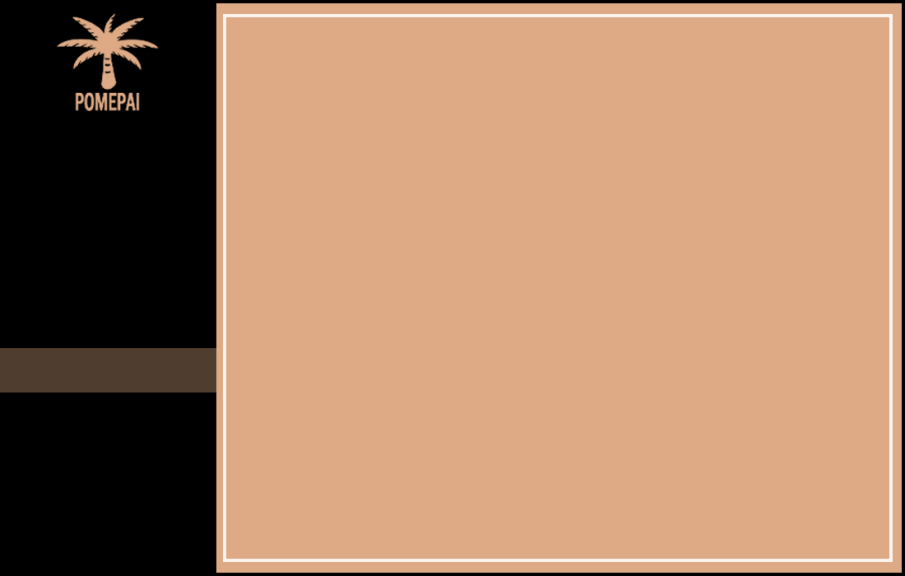
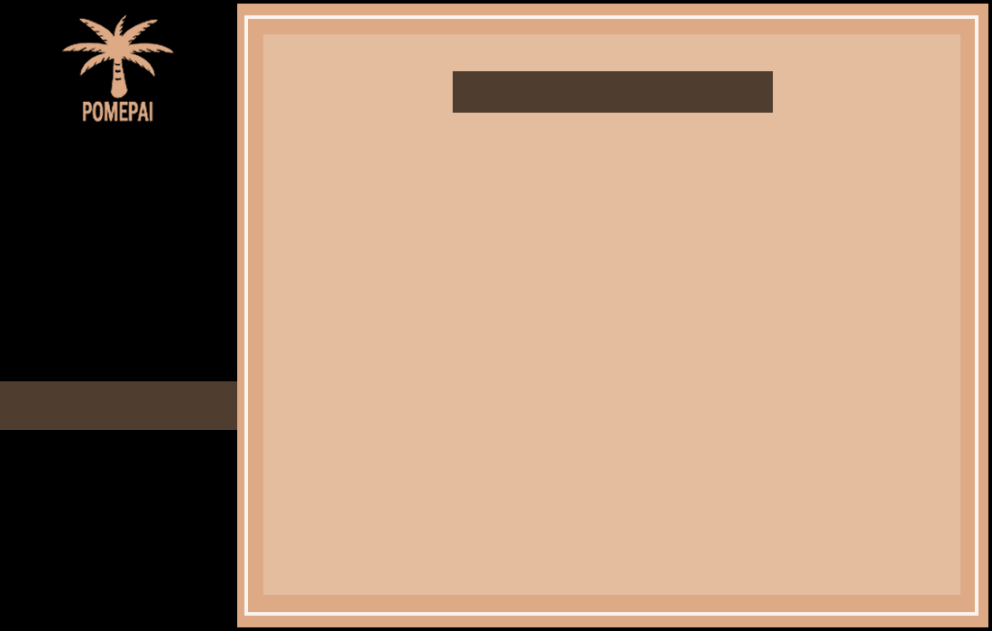
prediction2 bg and excel prediction

diff --git a/Software.py b/Software.py
@@ -45,48 +45,6 @@ class tkinterApp(tk.Tk):
         frame.tkraise()
         self.title('POMEPAI')
 
-# class LoginPage(tk.Frame):
-#
-#     def init(self, parent, controller):
-#         tk.Frame.init(self, parent)
-#
-#         # Background image
-#         bg = Image.open("Pictures/login.png")
-#         resizebg = bg.resize((760, 760), Image.ANTIALIAS)
-#         self.newbg = ImageTk.PhotoImage(resizebg)
-#
-#         rectangle = tk.Canvas(self, width=760, height=760)
-#         rectangle.create_rectangle(220, 500, 540, 270)
-#         rectangle.create_image(0, 0, image=self.newbg, anchor=NW)
-#         rectangle.create_text(385, 230, text="LOGIN", fill="#00557E", font=('Raleway', 30, 'bold'))
-#         rectangle.create_text(325, 295, text="Username", fill="black", font=('Raleway', 11))
-#         rectangle.create_text(325, 365, text="Password", fill="black", font=('Raleway', 11))
-#         rectangle.grid(row=0, column=0)
-#
-#         username = tk.StringVar()
-#         usernameEntered = tk.Entry(self, width=30, textvariable=username)
-#         usernameEntered.grid(column=0, row=0, padx=(0, 0), pady=(220, 350))
-#
-#         password = tk.StringVar()
-#         passwordEntered = tk.Entry(self, width=30, textvariable=password, show="*")
-#         passwordEntered.grid(column=0, row=0, pady=(320, 310))
-#
-#         # Define functions
-#         def on_enter(e):
-#             button.config(background='#00557E', foreground="white")
-#
-#         def on_leave(e):
-#             button.config(background='SystemButtonFace', foreground='black')
-#
-#         # Create a Button
-#         # button = tk.Button(self, text="Login", font=('Raleway', 11), width=10, height=0, bd=0,
-#         #                    command=lambda: validateLogin(username.get(), password.get()))
-#         # button.grid(column=0, row=0, pady=(400, 230))
-#
-#         # Bind the Enter and Leave Events to the Button
-#         button.bind('<Enter>', on_enter)
-#         button.bind('<Leave>', on_leave)
-
 class HomePage(tk.Frame):
     def __init__(self, parent, controller):
         tk.Frame.__init__(self, parent)
@@ -98,6 +56,7 @@ class HomePage(tk.Frame):
         self.newbg = ImageTk.PhotoImage(resizebg)
         rectangle = tk.Canvas(self, width=1100, height=700, borderwidth=0, highlightthickness=0)
         rectangle.create_image(0, 0, image=self.newbg, anchor=NW)
+        rectangle.create_text(130, 155, text="POME Prediction AI", fill="#DDAA85", font=('Raleway', 17, 'bold'))
         rectangle.grid(row=0, column=0)
 
         aboutButton = tk.Button(self, text="ABOUT", fg="#DDAA85", bg="#4F3D2F", width=30, height=2, bd=0, activebackground="#4F3D2F",
@@ -221,53 +180,159 @@ class PredictionPage2(tk.Frame):
     def __init__(self, parent, controller):
         tk.Frame.__init__(self, parent)
 
+        listbox = Listbox(self, height=144, width=144, selectmode="multiple")
+        listbox.pack
+
         def getExcel():
+
             file = askopenfile(filetypes=[('Excel Files', '*.xlsx')])
             inputExcelFile = load_workbook(filename=file.name)
             inputExcelFile2 = inputExcelFile.active
 
+            features_row = inputExcelFile2[1]
+
+            for item in features_row:
+                box1.insert(END, item.value)
+
             file_label = tk.Label(self, text='File Uploaded Successfully!', foreground='green')
-            file_label.grid(column=0, row=0, padx=(10, 600), pady=(680, 15))
+            file_label.grid(column=0, row=0, padx=(350, 80), pady=(580, 20))
             file_label.after(3000, lambda: file_label.destroy())
 
         # Background image
         bg = Image.open("Pictures/GUI3.png")
         resizebg = bg.resize((1100,700), Image.ANTIALIAS)
 
+        # def data():
+        #     global filename
+        #     filename = askopenfilename(initialdir=r'C:\Users\surya\Desktop\CDAC Noida\ML\Files', title="Select file")
+        #     e1.insert(0, filename)
+        #     e1.config(text=filename)
+        #
+        #     global file
+        #     file = pd.read_csv(filename)
+        #     for i in file.columns:
+        #         box1.insert(END, i)
+        #
+        #     for i in file.columns:
+        #         if type(file[i][0]) == np.float64:
+        #             file[i].fillna(file[i].mean(), inplace=True)
+        #         elif type(file[i][0]) == np.int64:
+        #             file[i].fillna(file[i].median(), inplace=True)
+        #         elif type(file[i][0]) == type(""):
+        #             imp = SimpleImputer(missing_values=np.nan, strategy='most_frequent')
+        #             s = imp.fit_transform(file[i].values.reshape(-1, 1))
+        #             file[i] = s
+        #
+        #     colss = file.columns
+        #     global X_Axis
+        #     X_Axis = StringVar()
+        #     X_Axis.set('X-axis')
+        #     choose = ttk.Combobox(self, width=22, textvariable=X_Axis)
+        #     choose['values'] = (tuple(colss))
+        #     choose.place(x=400, y=20)
+        #
+        #     global Y_Axis
+        #     Y_Axis = StringVar()
+        #     Y_Axis.set('Y-axis')
+        #     choose = ttk.Combobox(self, width=22, textvariable=Y_Axis)
+        #
+        #     choose['values'] = (tuple(colss))
+        #     choose.place(x=400, y=40)
+        #
+        #     global graphtype
+        #     graphtype = StringVar()
+        #     graphtype.set('Graph')
+        #     choose = ttk.Combobox(self, width=22, textvariable=graphtype)
+        #     choose['values'] = ('scatter', 'line', 'bar', 'hist', 'corr', 'pie')
+        #     choose.place(x=400, y=60)
+        #
+        # def getx():
+        #     x_v = []
+        #     s = box1.curselection()
+        #     global feature_col
+        #     for i in s:
+        #         if i not in feature_col:
+        #             feature_col.append((file.columns)[i])
+        #             x_v = feature_col
+        #     for i in x_v:
+        #         box2.insert(END, i)
+        #
+        # def gety():
+        #     y_v = []
+        #     global target_col
+        #     s = box1.curselection()
+        #     for j in s:
+        #         if j not in target_col:
+        #             target_col.append((file.columns)[j])
+        #             y_v = target_col
+        #
+        #     for i in y_v:
+        #         box3.insert(END, i)
+
         self.newbg = ImageTk.PhotoImage(resizebg)
         rectangle = tk.Canvas(self, width=1100, height=700, borderwidth=0, highlightthickness=0)
         rectangle.create_image(0, 0, image=self.newbg, anchor=NW)
         rectangle.create_text(130, 155, text="POME Prediction AI", fill="#DDAA85", font=('Raleway', 17, 'bold'))
-        rectangle.create_text(370, 630, text="(ONLY .xlsx FILES)", fill="Black", font=('Raleway', 10))
+        rectangle.create_text(680, 100, text="Prediction For Excel File", fill="#DDAA85", font=('Raleway', 17, 'bold'))
+        rectangle.create_text(835, 190, text="(ONLY .xlsx FILES)", fill="Black", font=('Raleway', 10))
         rectangle.grid(row=0, column=0)
 
-        aboutButton = tk.Button(self, text="ABOUT", fg="#DDAA85", bg="Black", width=30, height=2, bd=0,font=('Raleway', 10, 'bold'), activebackground="Black",
-                               activeforeground="#DDAA85", command=lambda: controller.show_frame(HomePage))
+        aboutButton = tk.Button(self, text="ABOUT", fg="#DDAA85", bg="Black", width=30, height=2, bd=0,
+                                activebackground="Black", activeforeground="#DDAA85",
+                                font=('Raleway', 10, 'bold'),
+                                command=lambda: controller.show_frame(HomePage))
         aboutButton.grid(column=0, row=0, padx=(0, 840), pady=(0, 135))
 
-        predictButton = tk.Button(self, text="PREDICTION (SINGLE)", fg="#DDAA85", bg="Black", width=30, height=2, bd=0, font=('Raleway', 10, 'bold'),  activebackground="Black",
-                                  activeforeground="#DDAA85", command=lambda: controller.show_frame(PredictionPage))
+        predictButton = tk.Button(self, text="PREDICTION (SINGLE)", fg="#DDAA85", bg="Black", width=30, height=2, bd=0,
+                                  activebackground="Black", activeforeground="#DDAA85",
+                                  font=('Raleway', 10, 'bold'),
+                                  command=lambda: controller.show_frame(PredictionPage))
         predictButton.grid(column=0, row=0, padx=(0, 840), pady=(100, 70))
 
-        predictButton2 = tk.Button(self, text="PREDICTION (EXCEL)", fg="#DDAA85", bg="#4F3D2F", width=30, height=2, bd=0,
-                                   activebackground="#4F3D2F", activeforeground="#DDAA85",
-                                   font=('Raleway', 10, 'bold'),
-                                   command=lambda: controller.show_frame(PredictionPage2))
+        predictButton2 = tk.Button(self, text="PREDICTION (EXCEL)",  fg="#DDAA85", bg="#4F3D2F", width=30, height=2, bd=0,
+                                  activebackground="#4F3D2F", activeforeground="#DDAA85",
+                                  font=('Raleway', 10, 'bold'),
+                                  command=lambda: controller.show_frame(PredictionPage2))
         predictButton2.grid(column=0, row=0, padx=(0, 840), pady=(300, 100))
 
         historyButton = tk.Button(self, text="HISTORY", fg="#DDAA85", bg="Black", width=30, height=2, bd=0,
-                                  activebackground="#4F3D2F", activeforeground="BLACK",
+                                  activebackground="Black", activeforeground="#DDAA85",
                                   font=('Raleway', 10, 'bold'),
                                   command=lambda: controller.show_frame(HistoryPage))
         historyButton.grid(column=0, row=0, padx=(0, 840), pady=(460, 100))
 
-        importButton = tk.Button(self, text="IMPORT FILE", command=getExcel, fg="#4F3D2F", bg="white", width=10,
-                                 height=1, bd=0)
-        importButton.grid(column=0, row=0, padx=(10, 380), pady=(520, 20))
+        # listbox = Listbox(root, height=100, width=100)
+        # listbox.pack(pady=20)
 
-        doPredictionButton = tk.Button(self, text="DO PREDICTION", fg="#4F3D2F", bg="white", width=13, height=1, bd=0,
+        listbox = Listbox(self, height=144, width=144, selectmode="multiple")
+        listbox.pack
+
+        e1 = Entry(self, text='')
+        e1.grid(column=0, row=0, padx=(260,0), pady=(0, 270))  # test file path
+
+        box1 = Listbox(self, height=15, width=25, selectmode='multiple')
+        box1.grid(row=0, column=0, padx=(0, 50), pady=(15, 0))
+
+        box2 = Listbox(self, height=15, width=25)
+        box2.grid(row=0, column=0, padx=(263, 0), pady=(15, 0))
+
+        Button(self, text='Select X', activeforeground="white", activebackground="black", bd=0).grid(column=0, row=0,
+                                                                                                     padx=(157, 0),
+                                                                                                     pady=(300, 0))
+
+        box3 = Listbox(self, height=15, width=25)
+        box3.grid(row=0, column=0, padx=(575, 0), pady=(15, 0))
+        Button(self, text='Select Y', activeforeground="white", activebackground="black", bd=0).grid(column=0, row=0,
+                                                                                                     padx=(370, 0),
+                                                                                                     pady=(300, 0))
+        # self.mainloop()
+
+        doPredictionButton = tk.Button(self, text="DO PREDICTION", fg="#4F3D2F", bg="white", width=23, height=2, bd=0,
                                        command=lambda: controller.show_frame(OutputPage))
-        doPredictionButton.grid(column=0, row=0, padx=(350, 80), pady=(520, 20))
+        doPredictionButton.grid(column=0, row=0, padx=(340, 80), pady=(520, 20))
+
+        importButton = tk.Button(self, text="IMPORT FILE", command=getExcel, fg="#4F3D2F", bg="white", width=10, height=1,bd=0)
+        importButton.grid(column=0, row=0, padx=(575,0),pady=(0,270))
 
 class HistoryPage(tk.Frame):
     def __init__(self, parent, controller):
